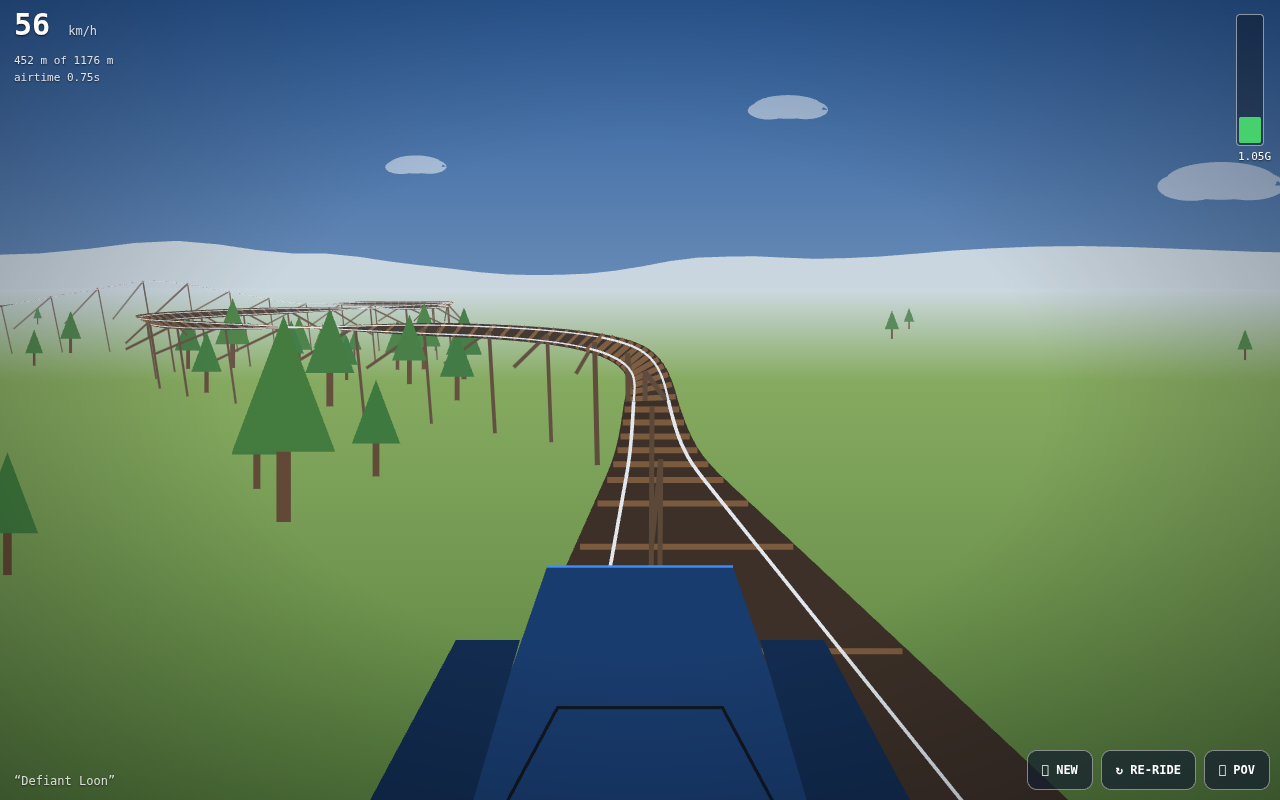
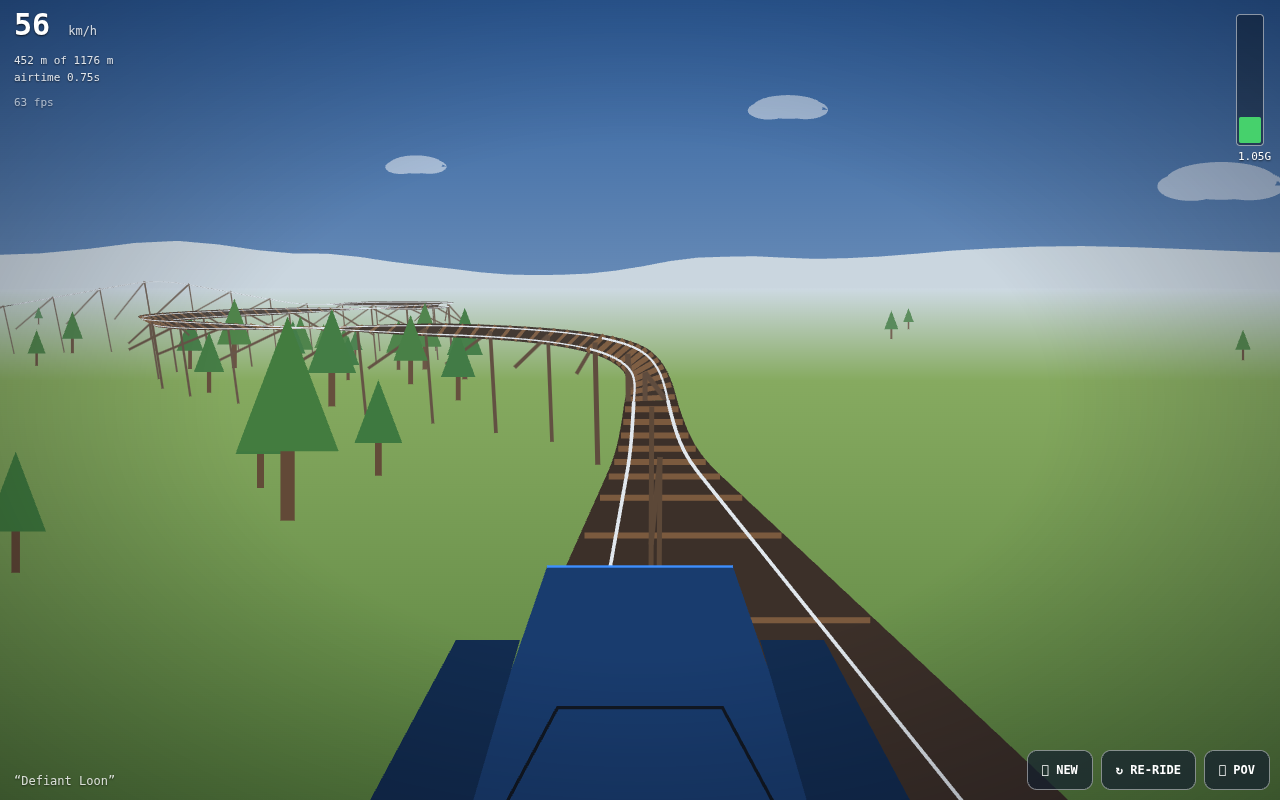
Coaster example: fix fps choppiness at ride start/end (station views were raster-bound): mountains no longer fill to H+40 under the ground polygon (clipped to horizon), skip the station slab slice directly under the seat (full-canvas fill hidden by deck+hood), tie strokes skipped past 130m, pixel bu

diff --git a/examples/coaster/index.html b/examples/coaster/index.html
@@ -19,6 +19,7 @@
   #speed { left: 14px; top: calc(10px + env(safe-area-inset-top)); font-size: 30px; font-weight: 700; line-height: 1; }
   #speed small { font-size: 12px; font-weight: 400; opacity: .8; }
   #stats { left: 14px; top: calc(52px + env(safe-area-inset-top)); font-size: 11px; opacity: .85; line-height: 1.55; }
+  #fps { left: 14px; top: calc(96px + env(safe-area-inset-top)); font-size: 11px; opacity: .6; }
   #name { left: 14px; bottom: calc(12px + env(safe-area-inset-bottom)); font-size: 12px; opacity: .8; max-width: 60vw; }
   #gbox { right: 16px; top: calc(14px + env(safe-area-inset-top)); width: 26px; height: 130px;
           border: 1px solid rgba(255,255,255,.5); border-radius: 4px; background: rgba(0,0,0,.35); }
@@ -58,6 +59,7 @@
 <div id="vig"></div>
 <div class="hud" id="speed">0 <small>km/h</small></div>
 <div class="hud" id="stats"></div>
+<div class="hud" id="fps"></div>
 <div class="hud" id="gbox"><div id="gfill"></div></div>
 <div class="hud" id="gtxt">1.0G</div>
 <div class="hud" id="name"></div>
@@ -442,7 +444,7 @@ var T=null;                 // current track
 var state='boot';           // boot | ride | done
 var sPos=0,vel=0,rideT=0,airT=0,airTotal=0,gVert=1,clankAcc=0,chainDist=0;
 var maxVRun=0,maxGRun=-9;
-var renderScale=(qs.has('scale')?(parseFloat(qs.get('scale'))||1):1),emaFrame=16,drawDist=360;
+var renderScale=(qs.has('scale')?(parseFloat(qs.get('scale'))||1):1),emaFrame=16,drawDist=380;
 
 function resetRide(){sPos=0;vel=0;rideT=0;airT=0;airTotal=0;gVert=1;clankAcc=0;chainDist=0;maxVRun=0;maxGRun=-9;}
 function buildCoaster(newSeed){
@@ -533,7 +535,7 @@ function resize(){
   var dpr=Math.min(window.devicePixelRatio||1,2);
   // hard pixel budget: full-screen 2D fills are the bottleneck on retina panels
   var px=innerWidth*innerHeight;
-  if(px*dpr*dpr>2600000)dpr=Math.sqrt(2600000/px);
+  if(px*dpr*dpr>1700000)dpr=Math.sqrt(1700000/px);
   W=Math.round(innerWidth*dpr*renderScale);H=Math.round(innerHeight*dpr*renderScale);
   cv.width=W;cv.height=H;
   fl=(H/2)/Math.tan(0.62);   // ~71° vertical fov
@@ -692,6 +694,15 @@ function drawScenery(){
     ctx.fill();
   }
   // mountains (ring around the world, drawn as near-plane-clipped runs)
+  // horizon first: the ground polygon below it covers everything the mountains
+  // draw under there, so mountains only need to fill down to the horizon line
+  var fhx=fx,fhy=0,fhz=fz;var l=Math.hypot(fhx,fhz)||1;fhx/=l;fhz/=l;
+  var rhx=fhz,rhz=-fhx; // horizontal right
+  var A1=projPt([camX+(fhx+rhx)*8000,camY,camZ+(fhz+rhz)*8000]);
+  var A2=projPt([camX+(fhx-rhx)*8000,camY,camZ+(fhz-rhz)*8000]);
+  var hy=H*0.5;
+  if(A1&&A2)hy=(A1[1]+A2[1])/2;
+  var mbottom=Math.max(-50,Math.min(H+40,hy+6));
   var mrun=[];
   var prevM=null;
   var ringPts=[];
@@ -708,8 +719,8 @@ function drawScenery(){
       ctx.beginPath();
       ctx.moveTo(mrun[0][0],mrun[0][1]);
       for(var q=1;q<mrun.length;q++)ctx.lineTo(mrun[q][0],mrun[q][1]);
-      ctx.lineTo(mrun[mrun.length-1][0],H+40);
-      ctx.lineTo(mrun[0][0],H+40);
+      ctx.lineTo(mrun[mrun.length-1][0],mbottom);
+      ctx.lineTo(mrun[0][0],mbottom);
       ctx.closePath();ctx.fill();
     }
     mrun=[];
@@ -739,12 +750,8 @@ function drawScenery(){
   }
   flushRun();
   // ground: horizon polygon (two far points at camera height + screen bottom corners)
-  var fhx=fx,fhy=0,fhz=fz;var l=Math.hypot(fhx,fhz)||1;fhx/=l;fhz/=l;
-  var rhx=fhz,rhz=-fhx; // horizontal right
-  var A1=projPt([camX+(fhx+rhx)*8000,camY,camZ+(fhz+rhz)*8000]);
-  var A2=projPt([camX+(fhx-rhx)*8000,camY,camZ+(fhz-rhz)*8000]);
-  var hy=H*0.5;
-  if(A1&&A2){hy=(A1[1]+A2[1])/2;
+  // A1/A2/hy were computed before the mountains
+  if(A1&&A2){
     var gg=ctx.createLinearGradient(0,hy,0,H);
     gg.addColorStop(0,rgb(SKY2));gg.addColorStop(.18,rgb([134,170,96]));gg.addColorStop(1,rgb([88,128,62]));
     ctx.fillStyle=gg;
@@ -766,6 +773,8 @@ function drawStationBase(a,b){ // platform + skirt: ground layer, drawn before t
   var ST=20; // ~7 m slices: segmented quads never tear across the frame the way one huge slab did
   for(var i=s0;i<s1;i+=ST){
     var j=Math.min(s1,i+ST);
+    if(sPos>i*DS-1.5&&sPos<j*DS+1.5)continue; // only the slice directly under the seat:
+    // it projects across the whole canvas and hides behind deck + hood anyway
     fillQuad(projWorld(i,-4.4,0.05),projWorld(j,-4.4,0.05),projWorld(j,4.4,0.05),projWorld(i,4.4,0.05),fogS(i,j,[152,150,146]));
     // side skirt down to the ground so the platform sits on the earth, not floating over it
     for(var side=-1;side<=1;side+=2){
@@ -810,6 +819,7 @@ function drawStationEndBase(a,b){
   var ST=20;
   for(var i=s0;i<s1;i+=ST){
     var j=Math.min(s1,i+ST);
+    if(sPos>i*DS-1.5&&sPos<j*DS+1.5)continue; // slice under the seat: whole-canvas fill, hidden anyway
     fillQuad(projWorld(i,-4.4,0.05),projWorld(j,-4.4,0.05),projWorld(j,4.4,0.05),projWorld(i,4.4,0.05),fogS(i,j,[152,150,146]));
     for(var side=-1;side<=1;side+=2){
       var w1=worldOf(i,4.4*side,0.05,0),w2=worldOf(j,4.4*side,0.05,0);
@@ -867,6 +877,7 @@ function drawChunk(a,b){
   ctx.strokeStyle=fogb([122,88,60],depth);
   ctx.lineWidth=Math.max(1,Math.min(6,fl*0.26/Math.max(10,depth)));
   ctx.beginPath();
+  if(depth<130) // past ~130 m ties blur into the deck: skip the stroke segments
   for(var i=i0;i<=i1;i++){
     if(i%Math.round(1.8/DS)!==0)continue; // denser ties: the main foreground speed cue
     var p1=projWorld(i,-0.8,0.02),p2=projWorld(i,0.8,0.02);
@@ -1060,10 +1071,11 @@ function render(){
 
 /* ---------- HUD ---------- */
 var elSpeed=document.getElementById('speed'),elStats=document.getElementById('stats'),
-    elG=document.getElementById('gtxt'),elGfill=document.getElementById('gfill');
+    elG=document.getElementById('gtxt'),elGfill=document.getElementById('gfill'),elFps=document.getElementById('fps');
 function hud(){
   if(!T)return;
   elSpeed.innerHTML=(vel*3.6).toFixed(0)+' <small>km/h</small>';
+  elFps.textContent=Math.round(1000/Math.max(1,emaFrame))+' fps';
   var airish=gVert<0.2&&state==='ride'&&sPos>T.chainEnd;
   elStats.innerHTML=(state==='ride'?(sPos/1|0):0)+' m of '+(T.total|0)+' m<br>'+
     'airtime <span class="'+(airish?'air':'')+'">'+airTotal.toFixed(2)+'s</span>'+
@@ -1075,7 +1087,7 @@ function hud(){
 }
 
 /* ---------- main loop ---------- */
-var lastT=performance.now(),probeN=0;
+var lastT=performance.now(),probeN=0,slowN=0,fastN=0;
 window.__perf={state:'boot',seed:0,name:'',s:0,v:0,g:1,phase:'boot',dist:0,total:0,air:0,fps:0,audio:'off',frame:0};
 function loop(now){
   // generous clamp: physics is cheap 240Hz substeps, so even a struggling device
@@ -1085,14 +1097,15 @@ function loop(now){
   for(var k=0;k<steps;k++)step(1/240);
   render();
   hud();
-  // adaptive resolution + draw distance
-  emaFrame=emaFrame*0.8+(now-loop._t0)*0.2;
-  if(state!=='boot'&&(probeN%8)===0){
-    var target=renderScale;
-    if(emaFrame>28)target=Math.max(0.5,renderScale*0.85);
-    else if(emaFrame<13)target=Math.min(1,renderScale*1.06); // never supersample past native
-    drawDist=emaFrame>28?300:440;
-    if(Math.abs(target-renderScale)>0.02){renderScale=target;resize();}
+  // adaptive resolution + draw distance — debounced and quantized: every resize()
+  // reallocates the canvas + sky buffer, so a twitchy controller IS the stutter
+  emaFrame=emaFrame*0.8+Math.min(60,(now-loop._t0))*0.2;
+  if(state!=='boot'&&(probeN%16)===0&&probeN>40){
+    var slow=emaFrame>30,fast=emaFrame<15;
+    slowN=slow?slowN+1:0;fastN=fast?fastN+1:0;
+    if(slowN>=3&&renderScale>0.5){renderScale=Math.max(0.5,renderScale*0.7);resize();slowN=0;}
+    else if(fastN>=8&&renderScale<1){renderScale=Math.min(1,renderScale*1.4);resize();fastN=0;}
+    drawDist=emaFrame>30?260:380;
   }
   probeN++;
   window.__perf={state:state,seed:seed>>>0,name:T?T.name:'',s:sPos|0,v:+vel.toFixed(2),g:+gVert.toFixed(2),
